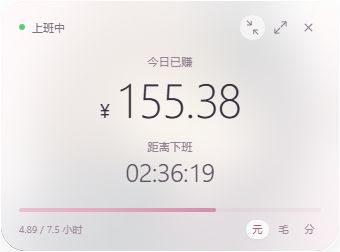
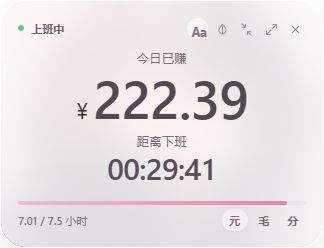
feat: improve mini window readability and add font size controls

diff --git a/dist/mini.css b/dist/mini.css
@@ -2,21 +2,27 @@
 body[data-compact=true] .mini-card{border-radius:20px;padding:9px 14px 10px}body[data-compact=true] .mini-header{min-height:21px}body[data-compact=true] .mini-content{flex-direction:row;justify-content:space-between;gap:12px;padding:0 0 6px}body[data-compact=true] .mini-income-block,body[data-compact=true] .mini-time-block{align-items:flex-start}body[data-compact=true] .mini-label{font-size:9px;line-height:13px}body[data-compact=true] .mini-income{font-size:29px;line-height:1.15;letter-spacing:-1px}body[data-compact=true] .mini-income.long{font-size:23px}body[data-compact=true] .mini-countdown{font-size:21px;line-height:1.2;letter-spacing:-.5px}body[data-compact=true] .mini-footer{display:none}body[data-compact=true] .mini-status{font-size:10px}body[data-compact=true] .mini-icon{width:23px;height:23px;padding:5px}body[data-compact=true] .mini-progress{height:3px}
 .mini-card{container-type:size;padding:clamp(8px,4.8vw,24px) clamp(10px,5.3vw,30px)}
 .mini-header{min-height:clamp(20px,11cqh,32px)}
-.mini-status{font-size:clamp(9px,3.3cqw,14px)}
+.mini-status{font-size:clamp(11px,calc(3.8cqw * var(--mini-font-scale,1)),14px);font-weight:550;color:#726571}
 .mini-actions{gap:clamp(1px,1cqw,6px)}
 .mini-icon{width:clamp(21px,7.5cqw,32px);height:clamp(21px,7.5cqw,32px)}
 .mini-icon svg{width:clamp(13px,4.5cqw,20px);height:clamp(13px,4.5cqw,20px)}
-.mini-content{min-height:0;gap:clamp(4px,4cqh,16px);padding:0 0 clamp(4px,3cqh,12px)}
-.mini-label{font-size:clamp(9px,4.5cqh,14px);line-height:1.4}
-.mini-income{font-size:clamp(28px,min(15.5cqw,25cqh),82px)}
-.mini-income.non-yuan{font-size:clamp(26px,min(13.6cqw,22cqh),72px)}
-.mini-income.long{font-size:clamp(22px,min(11cqw,19cqh),60px)}
-.mini-countdown{font-size:clamp(18px,min(8.6cqw,13.5cqh),44px)}
-.mini-footer{min-height:16px;margin-top:clamp(4px,2cqh,9px);font-size:clamp(9px,3cqw,13px)}
+.mini-content{container-type:size;min-height:0;gap:4px;padding:0 0 4px;--mini-label-size:clamp(10px,min(calc(4.3cqw * var(--mini-font-scale,1)),8cqh),14px);--mini-text-room:calc(100cqh - var(--mini-label-size) * 2.8 - 4px)}
+.mini-label{font-size:var(--mini-label-size);line-height:1.4;font-weight:500;color:#7b6c7a}
+.mini-income,.mini-income.non-yuan,.mini-income.long{font-size:clamp(20px,min(calc(18.5cqw * var(--mini-font-scale,1)),calc(var(--mini-text-room) * .64 / 1.16),calc((100cqw - 8px) / var(--mini-income-em,4))),104px);font-weight:550;letter-spacing:-1px;transition:font-size .16s ease}
+.mini-countdown{font-size:clamp(14px,min(calc(10.4cqw * var(--mini-font-scale,1)),calc(var(--mini-text-room) * .36 / 1.25)),58px);font-weight:500;color:#5c4d5d;transition:font-size .16s ease}
+.mini-footer{min-height:22px;margin-top:clamp(4px,2cqh,9px);font-size:clamp(11px,calc(3.6cqw * var(--mini-font-scale,1)),14px);font-weight:500;color:#7b6c7a}
+.mini-units button{font-size:clamp(11px,calc(3.6cqw * var(--mini-font-scale,1)),14px);width:26px;height:22px;font-weight:550;color:#7b6c7a}
+.mini-type-button{font-size:13px;font-weight:650;letter-spacing:-.7px}
 body[data-compact=true] .mini-content{padding-bottom:5px;gap:8px}
-body[data-compact=true] .mini-income{font-size:clamp(22px,min(10.5cqw,43cqh),46px)}
-body[data-compact=true] .mini-income.non-yuan{font-size:clamp(21px,min(9.6cqw,40cqh),42px)}
-body[data-compact=true] .mini-income.long{font-size:clamp(18px,min(8cqw,36cqh),34px)}
-body[data-compact=true] .mini-countdown{font-size:clamp(17px,min(7.4cqw,33cqh),33px)}
+body[data-compact=true] .mini-income-block{width:54%;min-width:0}
+body[data-compact=true] .mini-time-block{width:43%;min-width:0}
+body[data-compact=true] .mini-label{font-size:clamp(10px,calc(3.5cqw * var(--mini-font-scale,1)),12px);line-height:1.3}
+body[data-compact=true] .mini-income,body[data-compact=true] .mini-income.non-yuan,body[data-compact=true] .mini-income.long{font-size:clamp(12px,min(calc(12cqw * var(--mini-font-scale,1)),43cqh,calc((54cqw - 6px) / var(--mini-income-em,4))),60px)}
+body[data-compact=true] .mini-countdown{font-size:clamp(14px,min(calc(8.4cqw * var(--mini-font-scale,1)),9cqw,33cqh),38px)}
+body[data-compact=true] .mini-font-presets{display:none}
+.mini-font-presets{display:flex;gap:5px;margin-top:3px}
+.mini-font-presets button{flex:1;padding:3px 5px;border-radius:7px;background:#f3e9ef;font-size:11px;font-weight:550}
+.mini-font-presets button[aria-pressed=true]{background:#dfb0c6;color:#4e3043}
+.mini-card .mini-appearance label{font-size:12px;font-weight:550}
 .mini-notice{position:absolute;bottom:8px;left:12px;right:12px;padding:4px 8px;text-align:center;border-radius:99px;background:#fff;color:#ad6989;font-size:10px;box-shadow:0 2px 10px #6c436315}
 @media(prefers-reduced-motion:reduce){*,*:before,*:after{transition:none!important;animation:none!important}}

diff --git a/README.md b/README.md
@@ -16,6 +16,7 @@
 - **随窗口适配**：主界面按窗口宽高整体缩放，小窗的字号、间距同步响应尺寸；缩小后内容保持完整，展开时恢复之前的小窗大小。
 - **柔和切换**：页面交接、面板高度、月份、工作日展开和紧凑模式使用连贯过渡，连续点击按最后一次选择收尾。
 - **0–100% 玻璃透明度**：设置页和小窗水滴按钮均可调节，即时预览、自动保存，文字保持清晰。调到最高时，玻璃填充与模糊降到零。
+- **更清晰的小窗字体**：默认数字加大、加粗，点击顶部 **Aa** 可在 80–160% 之间调节，也可选择“标准 / 大 / 特大”。偏好自动保存，字号会根据窗口可用空间限制，避免文字挤出界面。
 - **随时返回**：点右上角的展开图标回到主界面，修改工资和排班。
 
 <p>
@@ -27,6 +28,8 @@
 
 <img src="docs/screenshots/transparency.png" width="300" alt="100% 玻璃透明度效果">
 
+<img src="docs/screenshots/font-size.png" width="324" alt="小窗字体大小设置，支持滑块和快捷预设">
+
 <img src="docs/screenshots/small-window.png" width="300" alt="缩小为360×500后的完整界面">
 
 ### 使用 Windows 桌面版
@@ -36,7 +39,7 @@
 3. 在“设置”里填好月薪、工作日、上下班与午休，点击“保存设置”。
 4. 点击标题右侧的“小窗模式”图标，主界面会收起，置顶小窗继续计数。
 
-小窗右上角依次是：玻璃透明度（水滴）、紧凑 / 展开、置顶、返回主界面、关闭。点击金额也能切换元、毛、分。关闭最后一个可见窗口会退出程序；不会自动开机启动。更新时请先关闭旧版窗口，再运行新版。
+小窗右上角依次是：字体大小（Aa）、玻璃透明度（水滴）、紧凑 / 展开、置顶、返回主界面、关闭。点击金额也能切换元、毛、分。关闭最后一个可见窗口会退出程序；不会自动开机启动。更新时请先关闭旧版窗口，再运行新版。
 
 ### 使用网页小窗
 
@@ -54,6 +57,7 @@
 | 倒计时 | 上班 / 下班倒计时、当天工作进度 |
 | 金额显示 | 元、毛、分；每赚 1 分、1 毛、1 元跳动 |
 | 玻璃透明度 | 0–100%，实时预览，主界面与小窗联动，自动保存 |
+| 小窗字体 | 默认数字更大更粗，80–160% 自定义大小，三档预设，自动保存 |
 | 本月 | 真实月历、每日估算、累计收入曲线、排班预计 |
 | 保存 | 当前浏览器或桌面版本地保存，无账号、无服务器数据库 |
 

diff --git a/RELEASE_NOTES.md b/RELEASE_NOTES.md
@@ -1,4 +1,12 @@
-# v1.2.0 — 玻璃透明度
+# v1.3.0 — 小窗大字与自定义字号
+
+- 加大并加粗小窗金额和倒计时，强化标签与底部工时的可读性。
+- 顶部新增 Aa 字体按钮，提供 80–160% 自定义滑块和“标准 / 大 / 特大”快捷选择。
+- 字号即时生效、自动保存；刷新、重新打开小窗后保留偏好，不改变原有工资与排班。
+- 根据窗口可用宽高约束字体，兼容紧凑模式和元 / 毛 / 分长金额，避免文字与进度条挤在一起。
+- 网页版与 Windows 版同步更新，README 增加字体设置截图。
+
+## v1.2.0 — 玻璃透明度
 
 - 新增 0–100% 玻璃透明度滑块，支持从磨砂到极透，调节时即时预览并自动保存。
 - 主界面与小窗保持一致，小窗可通过水滴按钮直接调节。
